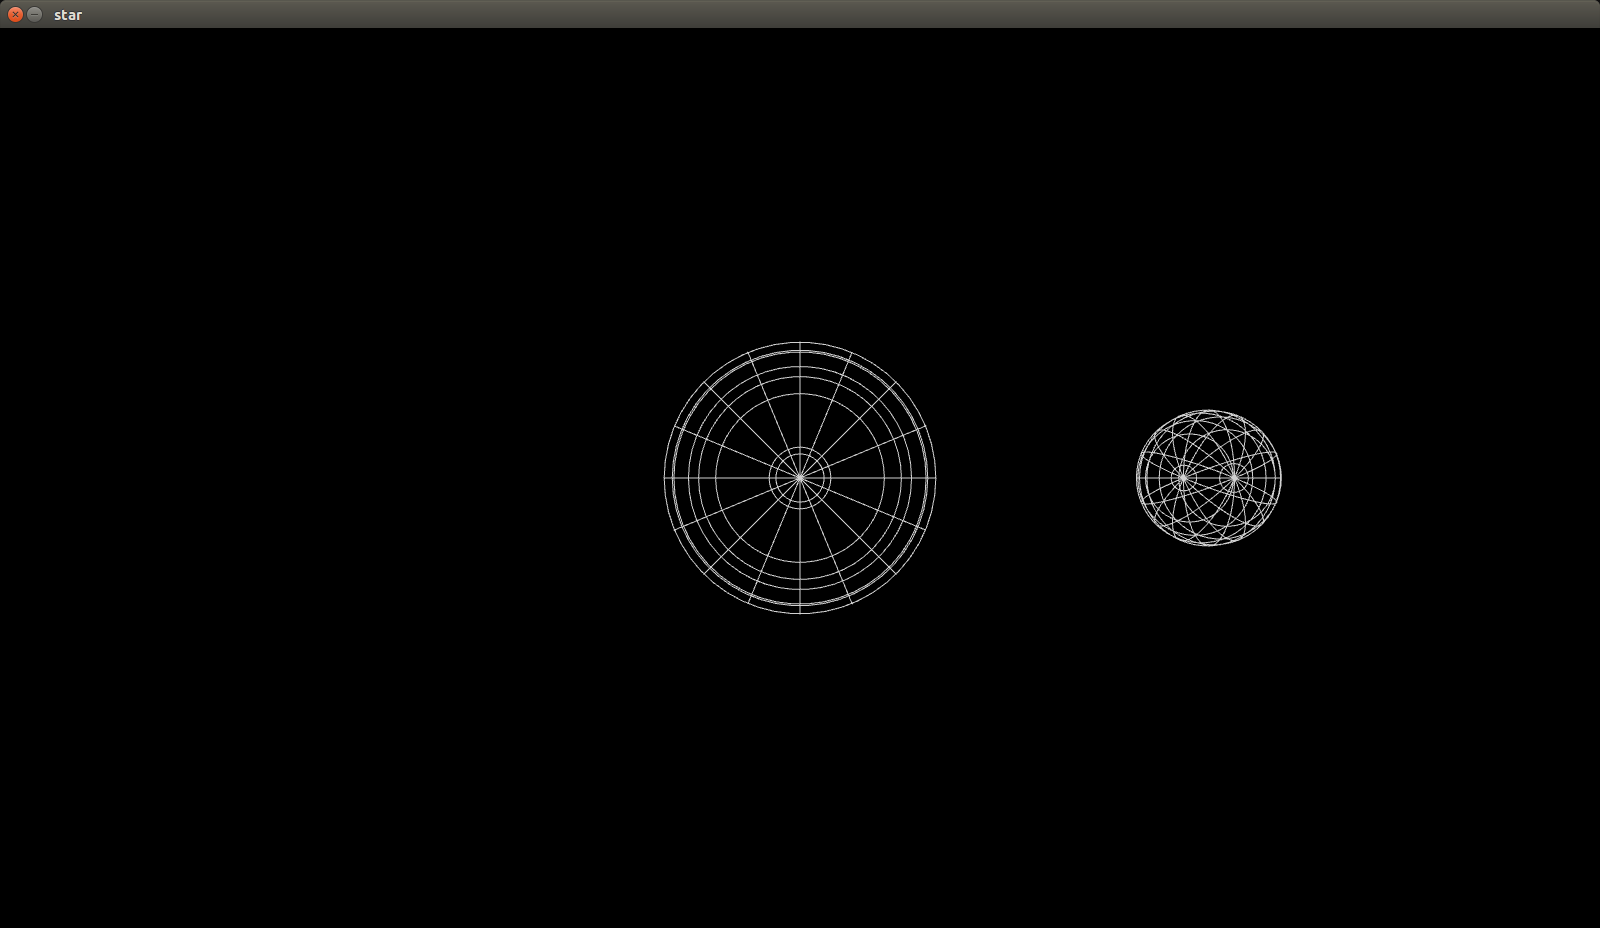
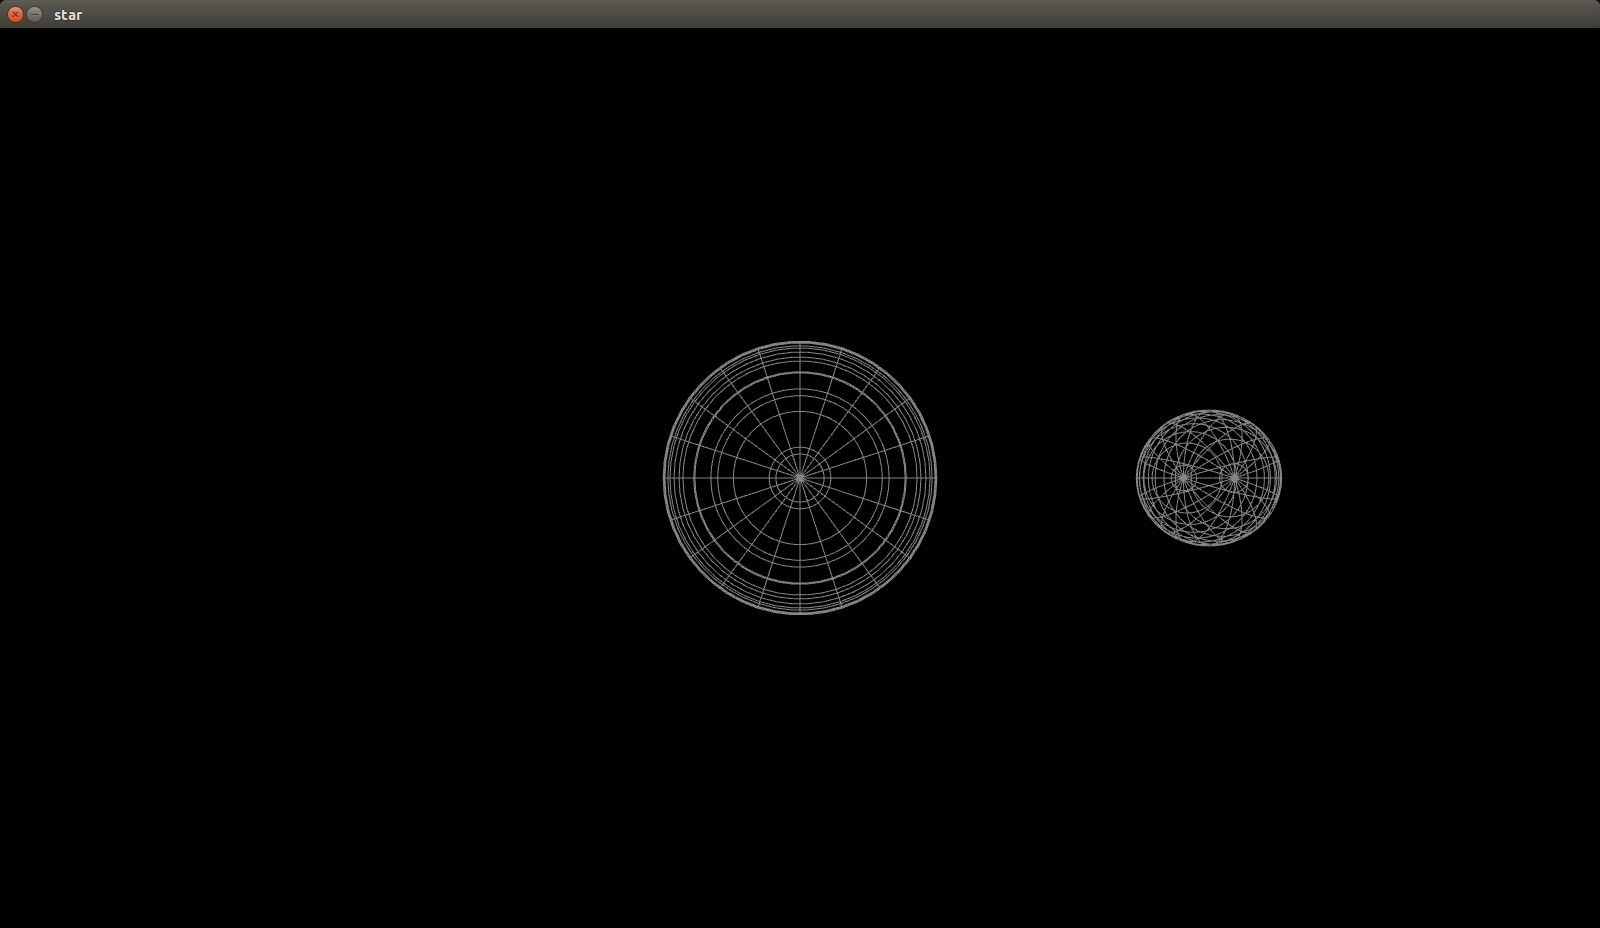
finish this pj totally. can be zipped

Changed region(s): [[0.4062, 0.3438, 0.5938, 0.6562], [0.6875, 0.4375, 0.8125, 0.5938]]

diff --git a/star/star.cpp b/star/star.cpp
@@ -79,7 +79,7 @@ int main(void)
 	glfwWindowHint(GLFW_OPENGL_PROFILE, GLFW_OPENGL_CORE_PROFILE);
 
 	// Open a window and create its OpenGL context
-	window = glfwCreateWindow(1600, 900, "star", NULL, NULL);
+	window = glfwCreateWindow(1600 / 2, 900 / 2, "star", NULL, NULL);
 	if (window == NULL)
 	{
 		fprintf(stderr, "Failed to open GLFW window. If you have an Intel GPU, they are not 3.3 compatible. Try the 2.1 version of the tutorials.\n");
@@ -251,7 +251,7 @@ void revolution() {
 	revolution_rotate = wrapback_add(revolution_rotate, R_SPEED);
 }
 void revolution_r() {
-	revolution_rotate = wrapback_add(revolution_rotate, R_SPEED);
+	revolution_rotate = wrapback_sub(revolution_rotate, R_SPEED);
 }
 static void key_call_back(GLFWwindow* windowk, int key, int scanCode, int action, int mod) {
 	printf("key callback, key %d, scancode %d, action %d, mod %d \n", key, scanCode, action, mod);

diff --git a/star/include/config.hpp b/star/include/config.hpp
@@ -2,8 +2,8 @@
 #define __CONFIG__HPP_
 #define R 1.0f
 #define CYCLE_SIDE 50
-#define NUM_OF_SLICE 9
-#define NUM_OF_MERIDIAN 8
+#define NUM_OF_SLICE 15
+#define NUM_OF_MERIDIAN 10
 #define PI 3.1415926
 #define TO_RAD(X) (X * PI / 180.0f)
 #define R_SPEED (0.2f)

diff --git a/16337269_颜彬_实验报告.md b/16337269_颜彬_实验报告.md
@@ -7,27 +7,33 @@
 $ make
 ```
 ## 运行方法
+在根目录下
 ``` sh
 $ make run
 ```
 ## 运行结果
 ![](star.png)
-## 文件介绍和运行平台
+## 项目亮点
+###　渐变效果
+实现了星球随着时间变化时，从亮到暗、再从暗到亮的不断变化的效果
+### 自动运行模式
+运行文件后，按下`R`后进入自动运行模式，小球会自动自转并绕着大球公转。
+按下`Shift+R`关闭自动运行。关闭后用户可以使用`D`, `Shift+D`, `Y`, `Shift+Y`自由地操控小球。
+## 文件介绍
+### 根目录文件介绍
 ```
 .
 ├── 16337269_颜彬_实验报告.html
 ├── 16337269_颜彬_实验报告.md
 ├── 16337269_颜彬_实验报告.pdf
-├── common
-├── cubic
-├── cubic.png
-├── distrib
-├── external
-├── helloworld
-├── helloworld.png
-└── Makefile
+├── common/
+├── distrib/
+├── external/
+├── Makefile
+├── star/
+└── star.png
 
-5 directories, 6 files
+4 directories, 5 files
 ```
 - 16337269_颜彬_实验报告.pdf
 项目实验报告
@@ -35,161 +41,137 @@ $ make run
 放置各个程序都可能需要的共同的代码。例如跟着色器有关的辅助代码
 - external/
 外部库，存放例如`glew`, `glfw`, `glm`等库。
-- helloworld/
-实验一的源码。画出一个白色方框
-- cubic/
-实验二的源码，画出一个立体的正方形
+- star/
+项目源码。存放画出星球的代码。
 - Makefile
 构筑整个项目的Makefile 文件
-- cubic.png, helloworld.png
-两张截图
+- star.png
+项目截图
+### 源码目录文件介绍
+```
+.
+├── include/
+│   ├── config.hpp
+│   ├── Makefile
+│   ├── mymath.cpp
+│   └── mymath.hpp
+├── Makefile
+├── SimpleFragmentShader.fragmentshader
+├── SimpleVertexShader.vertexshader
+├── star.cpp
+└── star.out
+```
+- include
+存放自己编写的项目中需要的代码
+    - mymath.cpp mymath.hpp
+    存放数学辅助函数。包括画出圆的经线和纬线等。
+    - config.hpp
+    定义一些配置全局变量。例如圆的经线有多少，纬线有多少，程序的运行速度等。
+- star.cpp
+程序主体和入口
+- star.out
+可执行文件
+- SimpleVertexShader.vertexshader
+vertex着色器
+- SimpleFragmentShader.fragmentshader
+fragment着色器
 ## 项目细节
-### 实验一细节
-`glfw`用于产生窗口。openGL本身不带有产生窗口的功能。故需要`glfw`作所有跟窗口有关的操作，包括事件响应等。
-
-```C++
-if (!glfwInit()) {
-    // error handle
-}
-glfwWindowHint(...);
-/*
-    more glfwWindowHint here
-*/
-window = glfwCreateWindow(700, 700, "helloworld", NULL, NULL);
-if (window == NULL)
-{
-    // error handle
-}
-```
-首先通过glfwInit产生窗口。检测返回的错误码。若在该步产生错误，则直接结束程序。glfwWindowHint用于设置窗口信息，例如窗口大小和标题等。
-
-openGL为了速度，是运行在显存上的，故openGL需要将内存的数据拷贝到显存上。openGL不能返回指向显存的指针，故大多数操作都是依靠openGL函数返回一个`ID`来完成的。用户通过向openGL传递这个ID，由openGL负责找到对应的buffer并读写数据。
-
-例如下列代码
-
+与上个实验相比，本次实验增加的地方有以下几个方面
+- 按键响应
+通过按键回调函数修改全局变量的方式和程序其他部分交互
+- 球的框线
+使用基本解析几何的方式，用圆的参数方程分别画出纬线和经线
+- 立体效果
+采用Model, View, Projection矩阵的变换来实现
+### 按键响应
+定义了回调函数
 ``` C++
-GLuint vertexbuffer;
-glGenBuffers(1, &vertexbuffer);
-glBindBuffer(GL_ARRAY_BUFFER, vertexbuffer);
-glBufferData(GL_ARRAY_BUFFER, 
-    sizeof(g_vertex_buffer_data), 
-    g_vertex_buffer_data, 
-    GL_STATIC_DRAW
-);
+static void key_call_back(GLFwindow* window, 
+    int key ,
+    int scanCode, 
+    int action, 
+    int mod)；
 ```
-`GLuint`是为了保证跨平台而封装的`unsigned int`类型。`glGenBuffers`返回一个整数代表着新建的缓冲区。`glBufferData`将某片连续内存的值拷贝到缓冲区中。
+在回调函数中判断拿下的键是否是`Y`, `Shift+Y`, `D`, `Shift+D`, `R`, `Shift+R`.
+其中不按下`shift`时，`mod`为0， 按下`shift`时`mod`为1.通过检测`mod`可以知道`shift`是否有按下。
 
-其中的`g_vertex_buffer_data`的定义如下。
+当按下时，`action = 1`,松开时，`action = 0`, 当持续按下时，`action = 2`。
+
+回调函数会修改若干个全局变量，记录着小球的自转角度和公转角度。在程序的其他部分，这些全局变量用来产生矩阵，进而产生进一步的视觉效果。
+
+### 球的框线
+在本实现中，以`Z`轴为球轴，以`XOY`平面为切面，切除的大圆作为球的纬线。
+
+为画出纬线，首先要求出大圆的半径$$r = \sqrt{R^2 - d^2}$$
+其中R为球的半径，d为截面距离球心的距离。其中在本坐标系中，有$$d = z_0$$
+即距离恰好为截面的z轴截距。
+当确定好这些参数后，可以知道$z = z_0$截面截出的大圆的方程为
+$$
+\begin{aligned}
+x &= r\cos\theta \\
+y &= r\sin\theta \\
+z &= z_0
+\end{aligned}
+$$
+
+
+为了画出球的经线，需要用球的参数方程。
+$$
+\begin{aligned}
+x &= R\cos\theta\cos\phi \\
+y &= R\sin\theta\cos\phi \\
+z &= R\sin\phi
+\end{aligned}
+$$
+其中R是定值。
+
+通过基础的解析几何知识可知，一条经线由两束曲线构成。
+当固定$\theta = \theta_0$，$\phi$从0变化到$\pi$时，是经线的一半。
+取$\theta = \theta_0 + \pi$，$\phi$从$\pi$变化到$2\pi$时，是经线的另一半。
+
+有了这些结论，就可以画出球的若干个经线和纬线。
+
+### 立体效果
+对于小球来说。其需要平移到世界坐标系的某个位置。其需要作伸缩变换（小球和大球在模型坐标系下是一模一样的，只是在变换到世界坐标系时需要作缩小）。其还需要作旋转变换（小球可以自转)
+由此可知Model变化矩阵的表达式应与下列代码相似。
 ``` C++
-static const GLfloat g_vertex_buffer_data[] = {
-	-0.5f, 0.5f,
-	0.5f, 0.5f,
-	-0.5f, -0.5f,
-
-	0.5f, -0.5f,
-	0.5f, 0.5f,
-	-0.5f, -0.5f
-};
+glm::mat4 Rotate = 
+    glm::rotate(Identity, float(spin_rotate), glm::vec3(0, 1, 0));
+glm::mat4 Scale = 
+    glm::scale(Identity, glm::vec3(0.5, 0.5, 0.5));
+glm::mat4 Translation = 
+    glm::translate(Identity, glm::vec3(3, 0, 0));
+glm::mat4 Revolution = 
+    glm::rotate(Identity, float(revolution_rotate), glm::vec3(0, 1, 0));
+glm::mat4 Model = 
+    Revolution * Translation * Scale * Rotate;
 ```
-每两个浮点数为一组，表示`(x, y)`，三个二元组用于表示一个三角形。由于openGL所有支持的几何图形是点、线和三角形，所以这里用两个三角形拼接成一个矩形。这是openGL画矩形的唯一方法。
+Rotate矩阵将小球绕y轴自转`spin_rotate`角度。Scale矩阵将小球等比缩放为原来的一半。Translate矩阵将小球平移到世界坐标系的(3, 0, 0)位置。Revolution矩阵作用于平移后的小球，使其公转。
 
-openGL的坐标是4元组。在着色器中，会把Z坐标补成0，把W坐标补成1.
+最后的Model矩阵为这些矩阵的乘积。
 
-拷贝完内容后，还需要告知openGL如何解释缓冲区中的数据。
-``` C++
-GLint posAttri = glGetAttribLocation(programID, "position");
-glEnableVertexAttribArray(posAttri);
-glBindBuffer(GL_ARRAY_BUFFER, vertexbuffer);
-glVertexAttribPointer(
-    posAttri,
-    2,
-    GL_FLOAT,
-    GL_FALSE,
-    2 * sizeof(GLfloat),
-    0
-);
-```
-`glGetAttribLocation`用于找到着色器代码中的`position`一项，并告知如何找到这一数据。`glVertexAttribPointer`中的`2`表示数据每2个为一组。`2*sizeof(GLfloat)`代表`stride`，即下一组数据相对于该组数据的偏移。最后一个`0`表示`offset`，即第一组数据相对于缓冲区开头的偏移量。
-
-如此即可让openGL明白如何使用position数据。
-
-最后的关键语句
-```C++
-glDrawArrays(GL_TRIANGLES, 0, 6); 
-```
-用于最后图画到画面上。
-
-在程序结束前，还有一些资源回收操作，例如`delete Buffers`和`glfwTerminate`等不赘述，见源代码。
-
-在ubuntu平台中，不使用着色器无法正常地画出图形。着色器使用`glsl`写成(语法类似于C语言)。在程序运行时，动态地传递字符串，并编译，告知显卡如何着色。
-
-在本项目中给各个顶点着色。openGL会对中间的各个点的颜色作插值。
-
-```C++
-// in fragment shader
-in vec3 Color;
-// Ouput data
-out vec4 out_color;
-
-void main()
-{
-
-	// Output color = red 
-	out_color = vec4(Color, 1.0);
-}
-```
-在`fragment shader`中，直接将传入的`color`补成4维。openGL使用`rgba`四通道来描述颜色。如此即可在项目一中画出白色的矩形。
-### 实验二细节
-为了实现透视效果，需要作矩阵变换。
-
-在最开始时，对象处于的坐标系是模型坐标系(model)。其中包括x,y,z三轴，每个轴从-1到1.
-
-首先需要对模型的每个顶点作矩阵变换，从模型坐标系变换到世界坐标系(world)。由于本实验只有一个物体，故不需要作世界坐标系的变化。此处的变换矩阵取单位阵$I_4$.
-
-然后需要将模型从世界坐标系转换到摄像机坐标系(camera).openGL提供了函数`glm::lookAt`，可以通过指定摄像机的位置、摄像机的观测方向和“上方向”来决定如何产生该变换矩阵。例如此处我们从`(3, 3, 6)`位置看向原点，并以y轴的正方向作为上方，则产生的变换矩阵由下列代码生成。
-```C++
-glm::mat4 View = glm::lookAt(
-    glm::vec3(3, 3, 6),
-    glm::vec3(0, 0, 0),
-    glm::vec3(0, 1, 0)
-);
-```
-
-最后要从世界坐标系变换到其次坐标系(homogeneous)。该变换的目的是实现近大远小的立体效果。
-下列代码产生了变换矩阵。
+Projection矩阵和View矩阵与前一个项目一致。不再赘述。
 ``` C++
 glm::mat4 Projection = glm::perspective(
     glm::radians(45.0f), 
-    (float) 4 / (float) 3, 
+    float(16)/9, 
     0.1f, 
-    100.0f
+    100.0f);
+glm::mat4 View = glm::lookAt(
+    glm::vec3(0, 0, 8),
+    glm::vec3(0, 0, 0),
+    glm::vec3(0, 1, 0)
 );
+glm::mat4 Identity = glm::mat4(1.0f);
 ```
-第一个参数是摄像机广角，第二个参数是屏幕的长宽比。第三和第四个参数是最近和最远的单位。
 
-当把这三个变换矩阵都求出来后，由矩阵变换的数学性质，可以求出这三个变换的复合，记为`mvp`
+最后的`mvp`矩阵表示为Project, View, Model矩阵的乘积。需要留意矩阵乘法是右结合的。
 
+`glGetUniformLocation`和`lgUniforMatrix4fv`用于向着色器写入矩阵。
 ```C++
 glm::mat4 mvp = Projection * View * Model;
+
+GLuint MVP_ID = glGetUniformLocation(programID, "MVP");
+glUniformMatrix4fv(MVP_ID, 1, GL_FALSE, &mvp[0][0]);
 ```
-如此，`mvp`即是这三个变换的复合对应的矩阵。将该矩阵传递到着色器中即可。在着色器中写如下代码。
 
-``` C++
-gl_Position = MVP * vec4(1*position, 1.0);
-```
-即可在产生坐标时先作矩阵变换。
-
-## 实验心得
-这次作业感觉最大的困难在于配置环境。由于以前比较少地配置C++环境，于是对`cmake`,`pkg-config`甚至动态库、静态库等概念不太熟。让本次项目跑起来花费了比较多的时间。
-
-本实验参考了教程
-http://www.opengl-tutorial.org/beginners-tutorials/tutorial-1-opening-a-window/
-由于教程已经配置好了环境，但教程的框架定得比较死（我甚至不能修改项目的文件名），且教程的`cmake`写得比较复杂，于是我不得不自己重新配置了一遍环境。
-
-本次实验在ubuntu 16.04LST下进行，使用`makefile`作为构筑工具。
-
-由于openGL代码比较复杂，有些地方不得不参考（甚至直接引用）教程的代码。
-
-例如着色器部分。openGL要求以字符串的形式在运行时把着色器代码传递给openGL，执行编译，并运行着色器（或在编译错误时返回错误信息）。教程为我们封装好了若干函数调用，用于打开文件、将文件内容转化成字符串等。这些代码并不是作图的核心，也比较繁琐，故我移植了教程中的实现。
-
-经过这次项目，我对openGL的工作框架有了初步的了解。从宏观上知道了openGL的工作流程。我还对矩阵变换和坐标系变换有了更深入的了解。也对各个坐标系之间解耦的方便之处有了直观的体会。我也学习到了，项目构筑工具的使用和环境的配置。
